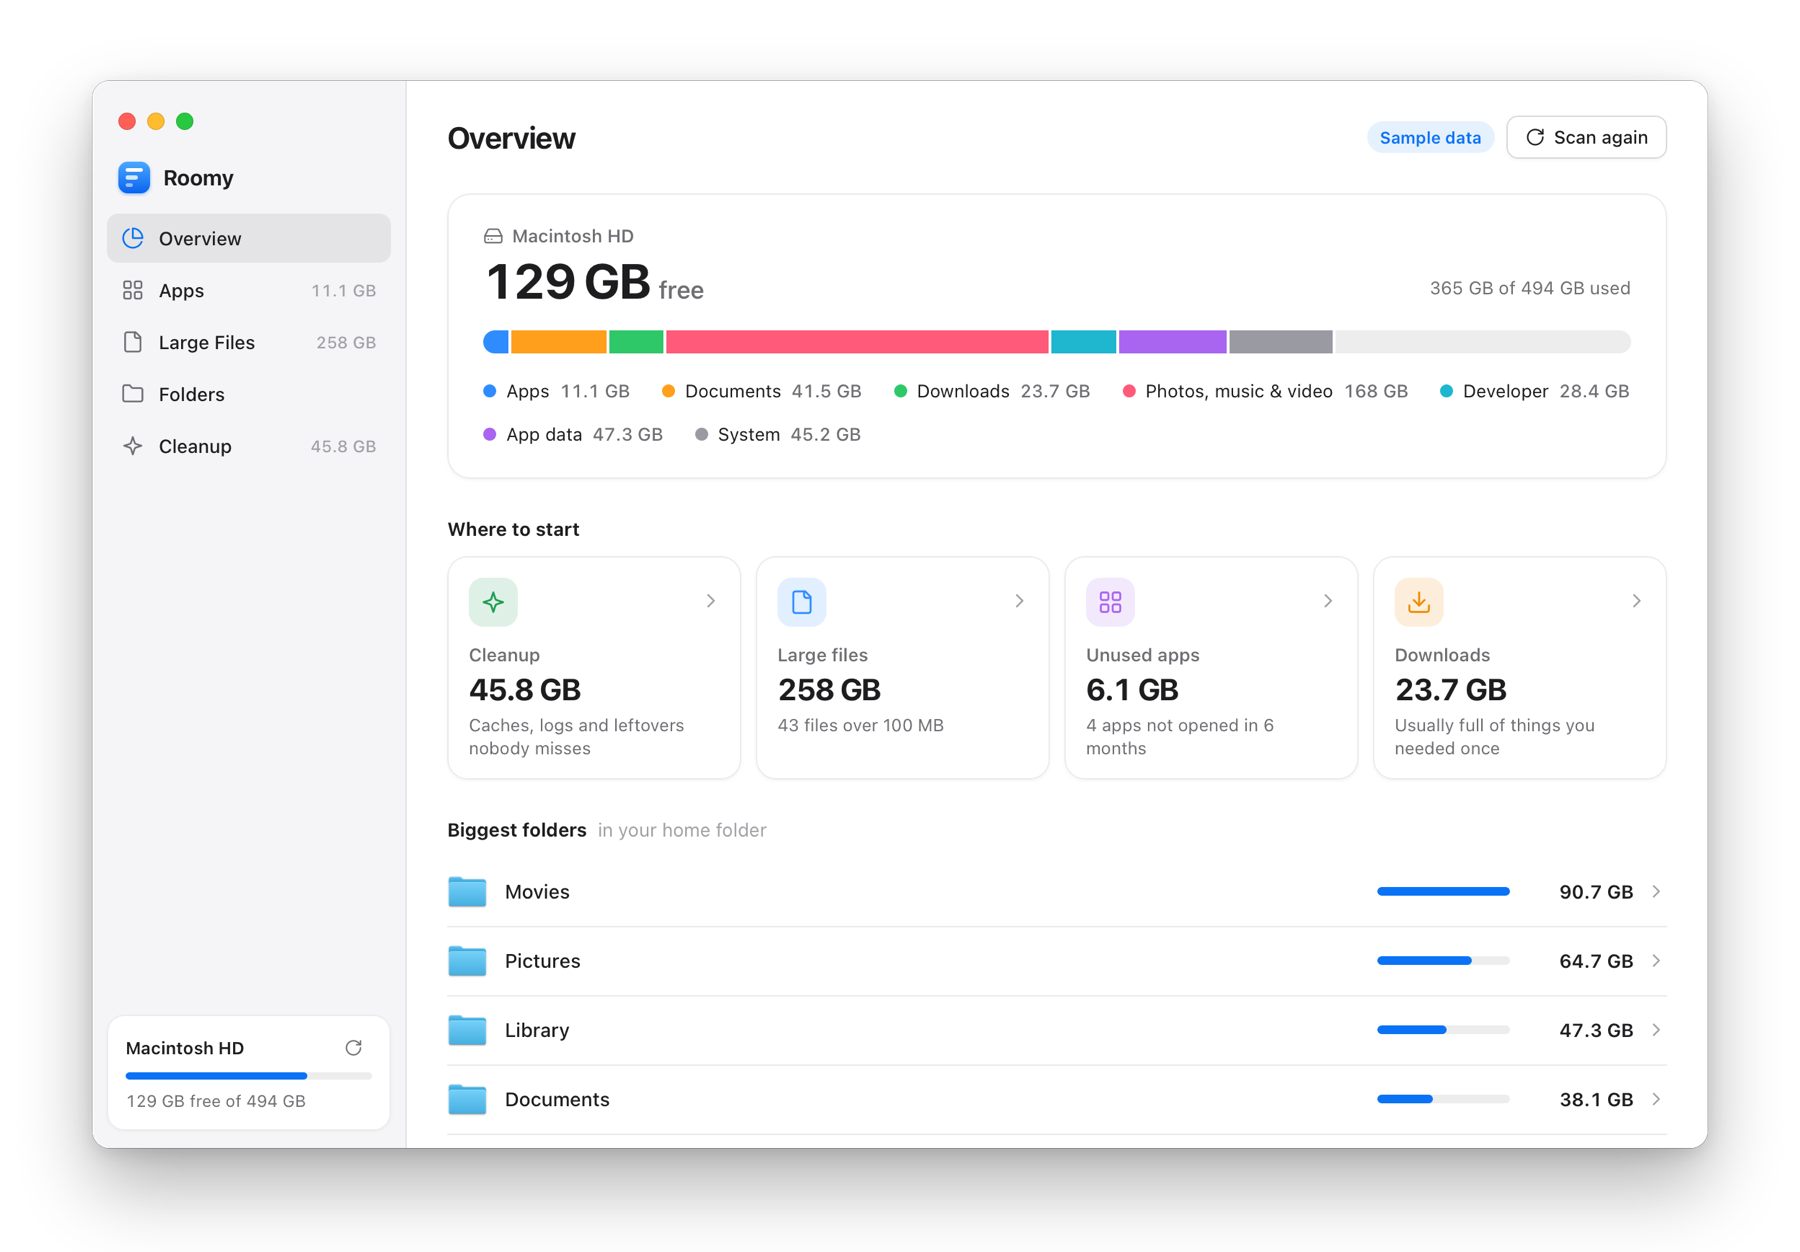
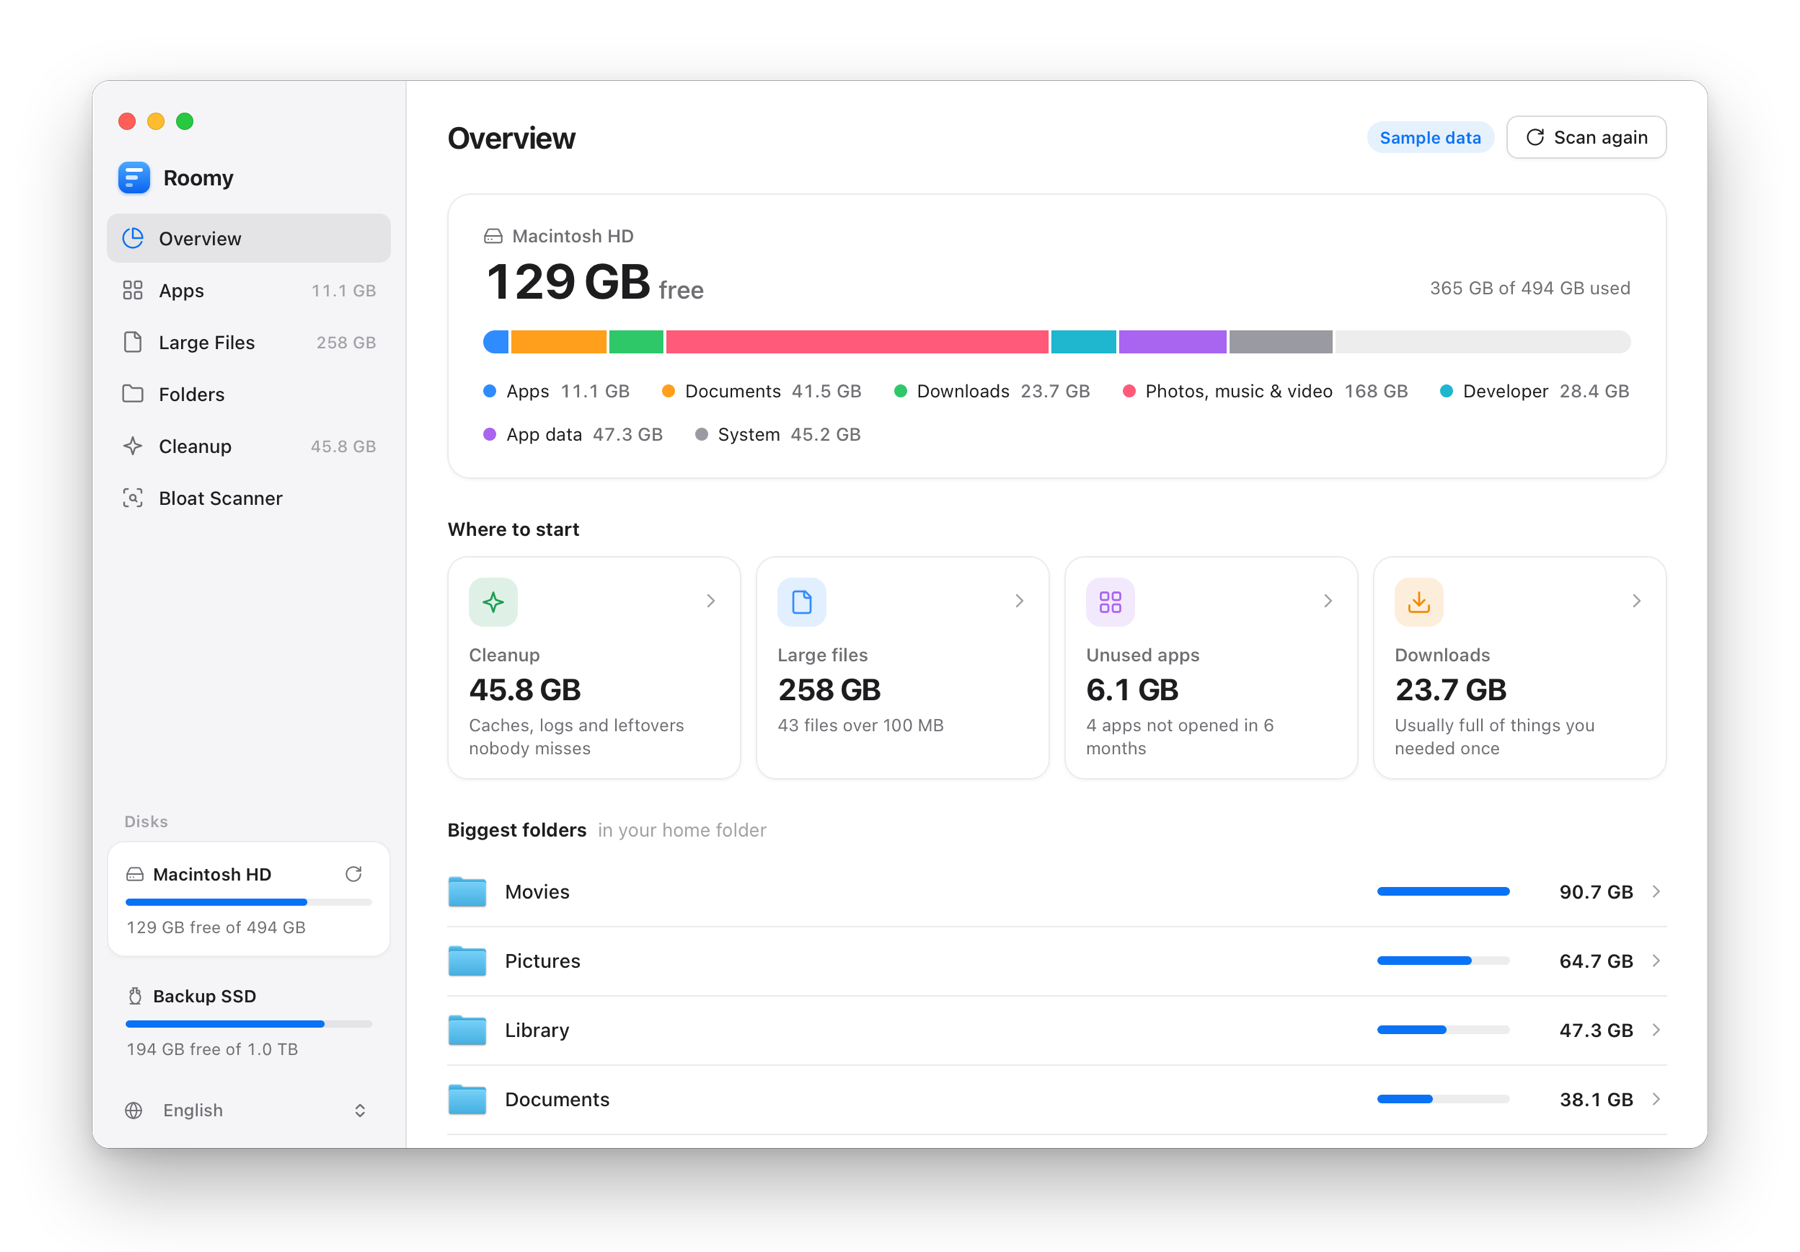
Roomy card: every disk and the Bloat Scanner, new screenshot
For Roomy 0.2.0. Hold back until that release is published.

Changed region(s): [[0.0622, 0.7788, 0.2178, 0.9034], [0.0622, 0.6853, 0.1867, 0.7476], [0.0933, 0.3738, 0.1556, 0.405]]

diff --git a/app.js b/app.js
@@ -8,7 +8,7 @@ const USER = "KorelUyar";
 
 // Cloudflare keeps pictures for hours under their address. Raise this number
 // whenever a file in assets/ is replaced, so visitors get the new one.
-const ASSETS = "2";
+const ASSETS = "3";
 const asset = (path) => `${path}?v=${ASSETS}`;
 
 // Presentation for known apps. A repository that is not listed here still
@@ -17,7 +17,7 @@ const APPS = {
   roomy: {
     name: "Roomy",
     tagline: "See what is on your disk. Delete what you don't need.",
-    points: ["Scans a whole disk in seconds", "Apps, large files, folders and cleanup in one place", "Everything goes to the Trash first"],
+    points: ["Every disk: apps, large files, folders and cleanup in one place", "Bloat Scanner: unwanted software, startup items, security check", "Everything goes to the Trash first"],
     icon: "assets/roomy.png",
     shot: "assets/roomy-shot.png",
     shotShape: "window",
